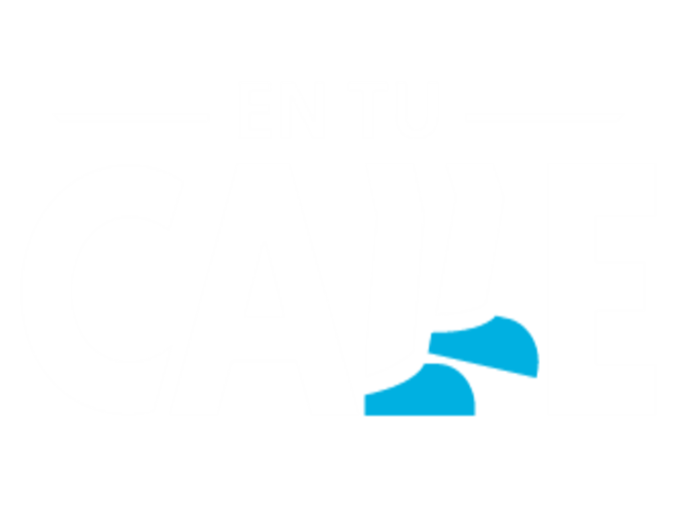
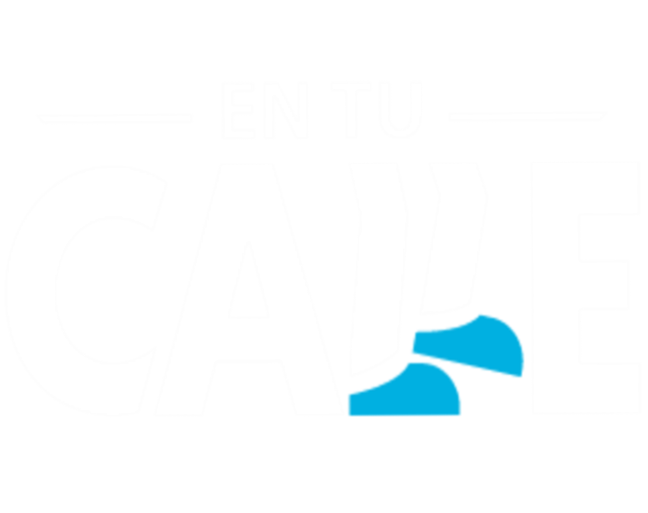
Cambios de login por los SH

Changed region(s): [[0.5864, 0.5926, 0.8333, 0.8109], [0.5247, 0.7485, 0.5864, 0.8109]]

diff --git a/src/app/user/info/events/detail-event/detail-event.page.ts b/src/app/user/info/events/detail-event/detail-event.page.ts
@@ -96,14 +96,15 @@ export class DetailEventPage implements OnInit {
           this.eventId = paraMap.get('eventId');
           this.email = this.authService.getUserMail();
           this.eventLoad = res;
-          this.userEventService.getUserEventByID(this.eventId, this.email).then(interested => {
-            if (interested) {
-              this.interested = true;
-            } else {
-              this.interested = false;
-            }
-          });
-
+          if (this.email !== '') {
+            this.userEventService.getUserEventByID(this.eventId, this.email).then(interested => {
+              if (interested) {
+                this.interested = true;
+              } else {
+                this.interested = false;
+              }
+            });
+          }
         });
         this.eventService.getEventByID(this.eventId).then(res => {
 
@@ -138,7 +139,10 @@ export class DetailEventPage implements OnInit {
         message: 'Al hacer click, usted esta aceptando recibir información sobre el evento (en caso de que se cancelara o algún cambio) vía correo',
         buttons: [{
           text: 'Cancelar',
-          role: 'cancel'},
+          role: 'cancel',
+          handler: () => {
+            this.interested = !this.interested;
+          } },
         {
           text: 'Aceptar',
           handler: () => {
@@ -158,7 +162,10 @@ export class DetailEventPage implements OnInit {
         message: 'Al hacer click, usted esta aceptando YA NO recibirá información sobre el evento vía correo',
         buttons: [{
           text: 'Cancelar',
-          role: 'cancel'},
+          role: 'cancel',
+          handler: () => {
+            this.interested = !this.interested;
+          }},
         {
           text: 'Aceptar',
           handler: () => {

diff --git a/src/app/user/info/events/detail-event/detail-event.page.html b/src/app/user/info/events/detail-event/detail-event.page.html
@@ -50,8 +50,8 @@
                 <ion-col  >
                   <ion-button color="primary" size="default" *ngIf="eventLoad" href="https://www.google.com/maps/dir//{{eventLoad.location.lat}},{{eventLoad.location.lng}}/@{{eventLoad.location.lat}},{{eventLoad.location.lng}},17z" target="_blank">Ver en Mapa </ion-button> 
                 </ion-col> 
-                  <ion-button fill="outline" size="default" *ngIf='email'>
-                    <ion-checkbox [(ngModel)]="interested" (click)="addValue($event)"></ion-checkbox>
+                  <ion-button  (click)="addValue($event)" fill="outline" size="default" *ngIf='email'>
+                    <ion-checkbox [(ngModel)]="interested" ></ion-checkbox>
                     <ion-label>Interesado</ion-label>
                   </ion-button>
               </ion-row>

diff --git a/src/app/shared/toolbar/toolbar.component.scss b/src/app/shared/toolbar/toolbar.component.scss
@@ -20,7 +20,7 @@ ion-toolbar{
     }
     .smallImg{
       display: block;
-      height: 40px !important;
+      height: 42px !important;
       padding: 2px;
     }
 }
@@ -39,7 +39,7 @@ ion-toolbar{
     }
     .smallImg{
       display: block;
-      height: 30px !important;
+      height: 32px !important;
       padding: 2px;
     }
 }
@@ -55,7 +55,7 @@ ion-icon{
 }
 .smallImg{
 	display: block;
-  height: 50px;
+  height: 55px;
   padding: 2px;
 }
 

diff --git a/src/app/app.component.html b/src/app/app.component.html
@@ -63,7 +63,7 @@
           <br>
           <ion-item lines="none" routerLink="/user/info">
             <ion-icon name="information-circle-outline" slot="start"></ion-icon>
-            <ion-label>Información</ion-label>
+            <ion-label>Conoce más</ion-label>
           </ion-item>
           <ion-item  lines="none" routerLink="/user/places-searcher-page">
             <ion-icon name="search-circle-outline" slot="start"></ion-icon>

diff --git a/src/app/shared/toolbar/toolbar.component.html b/src/app/shared/toolbar/toolbar.component.html
@@ -31,7 +31,7 @@
         <img class="smallImg" src="../../../assets/img/hacemos_la_diferencia.png"> 
       </div>
       <div class="column">
-        <img class="smallImg" src="../../../assets/img/en_tu_calle_white.png">
+        <img class="smallImg" src="../../../assets/img/en_tu_calle_long.png">
       </div>
       <div class="column">
         <img class="smallImg" src="../../../assets/img/Qro_white.png">

diff --git a/src/app/core/services/auth.service.ts b/src/app/core/services/auth.service.ts
@@ -55,7 +55,9 @@ export class AuthService {
    */
   getUserMail() {
     let user = this.afAuth.auth.currentUser;
-    return user.email;
+    if (user) {
+      return user.email;
+    } else { return ''; }
   }
 
 
